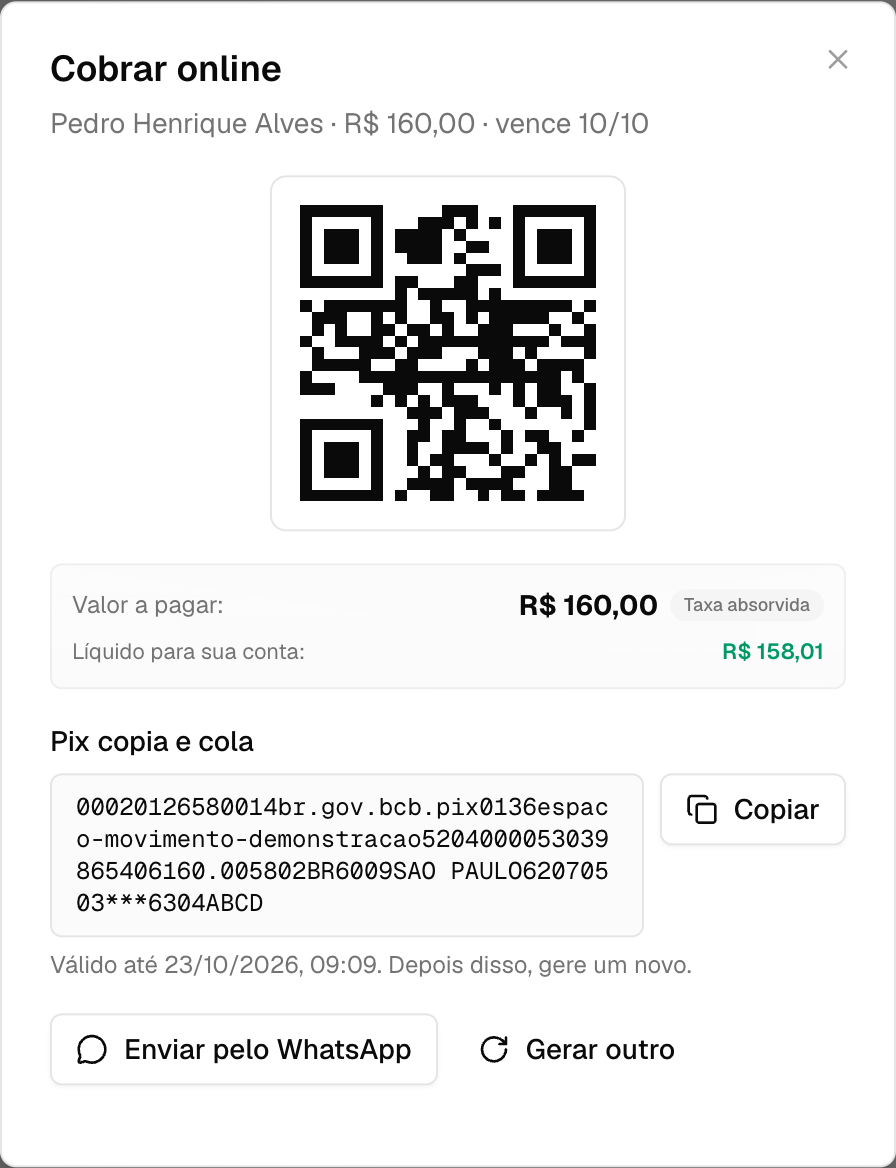
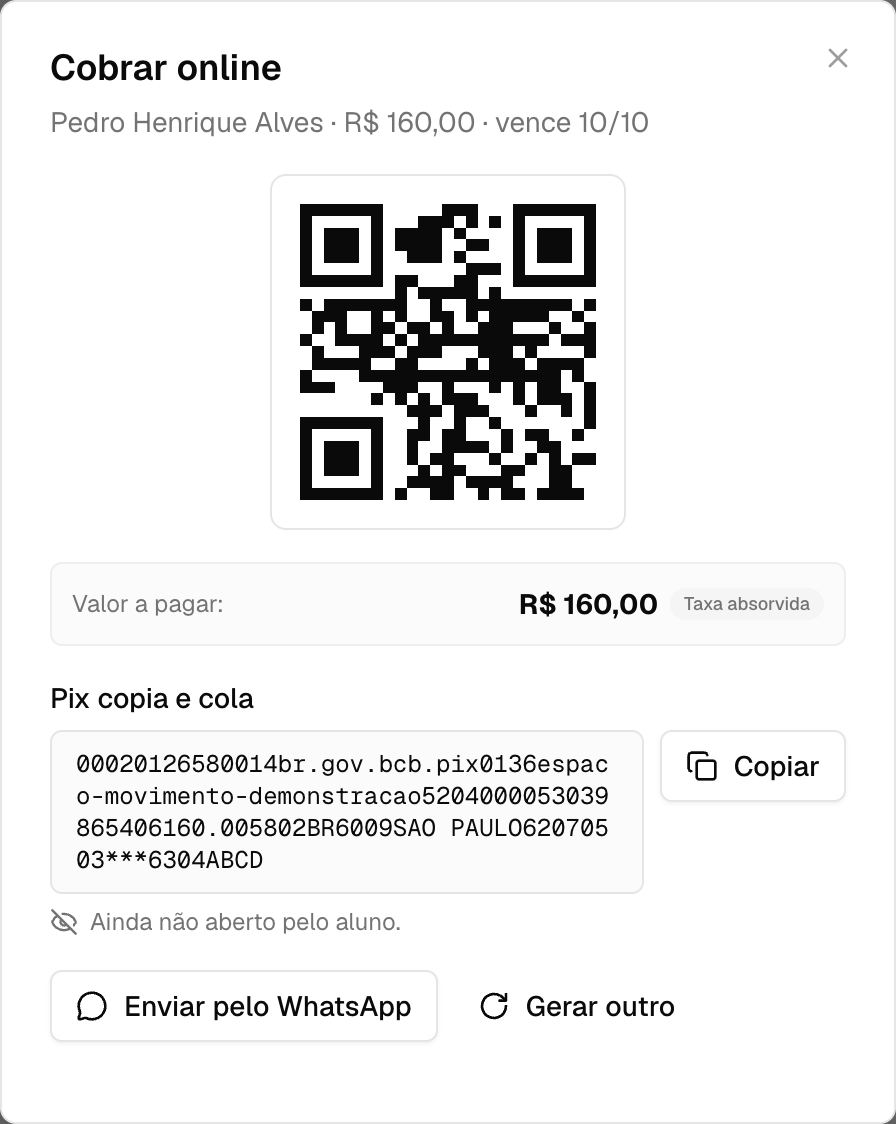
fix(landing): Pix picture without the stale validity and the net amount line (QA finding 20)

diff --git a/apps/web/scripts/landing-screenshots/capture.spec.ts b/apps/web/scripts/landing-screenshots/capture.spec.ts
@@ -397,6 +397,9 @@ test("telas da landing", async ({ page }) => {
       .getByText("Demonstração", { exact: true })
       .evaluate((el) => el.closest(".border-dashed")?.remove())
       .catch(() => undefined);
+    // A landing nao mostra taxa nem valor liquido, e a validade do print fica velha: saem do print (achado 20).
+    await p.getByText("Líquido para sua conta:").evaluate((el) => el.parentElement?.remove()).catch(() => undefined);
+    await p.getByText(/^Válido até/).evaluate((el) => el.remove()).catch(() => undefined);
     // Sem o "Fechar" do rodape: o print mostra so o Pix.
     await dialog.evaluate((el) => {
       for (const b of el.querySelectorAll("button")) {

diff --git a/docs/qa/2026-10-23-teste-geral.md b/docs/qa/2026-10-23-teste-geral.md
@@ -6,7 +6,7 @@ Plano: `docs/handoff/2026-10-23-plano-2fa-email-e-revisao-visual.md`, Parte B. N
 
 **76 achados no teste** (5 `alta`, 24 `média`, 47 `baixa`) e mais 5 achados durante as correções (77 a 81). Por área: Entrada e conta 11 · Painel e lembretes 2 · Cadastros 11 · Dia a dia 15 · Dinheiro 21 · Comunicação 3 · Administração 5 · Perfis 3 · Geral 5. Celular e tema escuro: nenhum achado próprio (os problemas de tela que aparecem lá já estão nas outras áreas).
 
-**Andamento das correções:** 32 de 81 resolvidos (#13, #56, #60, #66, #75, #76, #77, #78, #79, #80). As 5 altas do teste estão corrigidas. Detalhes na seção [Correções](#correções). Cada linha corrigida na tabela da área leva "(corrigido)" na gravidade.
+**Andamento das correções:** 33 de 81 resolvidos (#13, #56, #60, #66, #75, #76, #77, #78, #79, #80). As 5 altas do teste estão corrigidas. Detalhes na seção [Correções](#correções). Cada linha corrigida na tabela da área leva "(corrigido)" na gravidade.
 
 **As 5 mais importantes (todas `alta`):**
 
@@ -120,6 +120,7 @@ Feitas depois do teste, uma alta por vez. Cada uma foi conferida com typecheck, 
 | 8, 43 | 24/10 | A prévia dos modelos de mensagem usa um exemplo que serve a qualquer área ("mensalidade de novembro", antes "curso Confeitaria") e o aviso de mudança de horário mostra um horário de exemplo. O texto padrão dos avisos de horário e de feriado diz "Aviso de {empresa}" (sem o artigo "da"); vale para os espaços novos, os modelos já salvos ficam como estão. | `features/communication/__tests__/message-preview.test.ts` | — |
 | 16, 39 | 24/10 | Mantidos, sem mudança: a doc `frontend/07` diz que as Boas-vindas fecham só pelo X ou pelos botões (#16), e a doc `product/11` diz que na chamada concluída quem não foi marcado vira falta (#39). | — | — |
 | 15 | 24/10 | A tela do convite (e as de convite inválido, vencido e já aceito) usa a mesma moldura de /login e /reset-password, com a marca, frases curtas e maiúscula só no começo, "Nova senha*" com asterisco vermelho, botão de 36 px, sem o texto "Acesso seguro com autenticação criptografada". O e-mail deixou de ser em fonte de código. | `lib/__tests__/accept-invite-copy.test.ts` | — |
+| 20 | 24/10 | A figura do Pix na landing (pix-light e pix-dark) foi refeita sem a frase "Válido até ... gere um novo" (a data ficava velha) e sem a linha "Líquido para sua conta", que mostrava o valor depois da taxa. O roteiro de capturas (`scripts/landing-screenshots`) agora tira as duas linhas antes do print. | conferido a olho; é imagem (sem teste automático) | — |
 
 **Para o deploy:** em produção, `ASAAS_API_URL` precisa apontar para a API real antes do build, senão os botões de simular pagamento continuam ligados (doc `technical/14`).
 
@@ -142,8 +143,8 @@ Gravidade: `alta` (impede usar, dado ou valor errado, erro no console ou no serv
 | 16 | Painel | boas-vindas depois da configuração inicial | desktop 1280, claro | A janela "Bem-vindo ao GestaraHub" não fecha com Esc (só pelo X ou "Explorar por conta própria"). | Esc fecha, como nas outras janelas. | Concluir a configuração inicial de uma conta nova e apertar Esc. | baixa (mantido) |
 | 17 | Planos e Assinatura `/plans` | comparação dos planos | desktop 1280, claro | A tela promete recursos que o produto não tem: "App do Aluno e do Professor", "Portal do Aluno: pagamento em 1 clique e reservas", "Portal do Professor: avaliações e extrato", "Multiunidades ilimitadas", "BI de ocupação e inteligência analítica preditiva", "API para alto volume", "Página web dedicada", "Passe livre do aluno em todas as unidades". Mostra também preços do Profissional (R$ 79,90) e do Expansão (R$ 199,00), que a memória do projeto dá como ainda não definidos. | Só o que existe hoje (como a regra da landing) e preço só depois de decidido. | Conta nova, menu do usuário → "Planos & Assinatura". Captura `site-1280-plans.png`. | média |
 | 18 | Planos e checkout | taxa do Pix | desktop 1280, claro | Taxa do Pix diferente entre telas: em Planos, o Grátis tem "Cobrança Pix online (R$ 1,99 por Pix pago)"; em Recebimentos online, "Pix Dinâmico até R$ 1,99 + R$ 1,99 (tarifa do parceiro + taxa do GestaraHub)". | Um valor só, igual nas duas telas. | Comparar `/plans` com `/online-payments`. Capturas `site-1280-plans.png` e `tour-1280-online-payments.png`. | média |
-| 19 | Planos e checkout | texto | desktop 1280, claro | Jargão e inglês na tela: "Churn", "BI", "API", "gateway", "Link na Bio", "Fazer Upgrade", "O motor de crescimento"; títulos com maiúscula em cada palavra ("Finalizar Assinatura", "Dados de Faturamento", "Razão Social ou Nome do Titular"); frases longas de marketing. | Português direto, frases curtas, maiúscula só no começo. | `/plans` e `/plans/checkout`. Capturas `site-1280-plans.png` e `site-1280-checkout.png`. | baixa |
-| 20 | Landing `/` | "Veja o sistema por dentro" → Pagamento online | desktop 1280 e celular 375, claro | A ilustração do Pix diz "Válido até 23/10/2026, 09:09. Depois disso, gere um novo." às 19h do mesmo dia (a hora já passou) e mostra "Líquido para sua conta: R$ 158,01" num Pix de R$ 160,00, o que expõe a taxa (a doc 08 pede a seção sem valores de taxa). | Validade no futuro e sem valor líquido que revele a taxa. | Abrir `/` e rolar até "Receba pelo Pix sem conferir extrato". Capturas `landing-1280-02.png` e `landing-1280-03.png`. | baixa |
+| 19 | Planos e checkout | texto | desktop 1280, claro | Jargão e inglês na tela: "Churn", "BI", "API", "gateway", "Link na Bio", "Fazer Upgrade", "O motor de crescimento"; títulos com maiúscula em cada palavra ("Finalizar Assinatura", "Dados de Faturamento", "Razão Social ou Nome do Titular"); frases longas de marketing. | Português direto, frases curtas, maiúscula só no começo. | `/plans` e `/plans/checkout`. Capturas `site-1280-plans.png` e `site-1280-checkout.png`. | baixa (depende da decisão da tela de Planos) |
+| 20 | Landing `/` | "Veja o sistema por dentro" → Pagamento online | desktop 1280 e celular 375, claro | A ilustração do Pix diz "Válido até 23/10/2026, 09:09. Depois disso, gere um novo." às 19h do mesmo dia (a hora já passou) e mostra "Líquido para sua conta: R$ 158,01" num Pix de R$ 160,00, o que expõe a taxa (a doc 08 pede a seção sem valores de taxa). | Validade no futuro e sem valor líquido que revele a taxa. | Abrir `/` e rolar até "Receba pelo Pix sem conferir extrato". Capturas `landing-1280-02.png` e `landing-1280-03.png`. | baixa (corrigido) |
 
 ### Painel e lembretes
 

diff --git a/docs/handoff/2026-10-24-diario-noturno.md b/docs/handoff/2026-10-24-diario-noturno.md
@@ -30,3 +30,5 @@ Plano: `2026-10-24-execucao-noturna.md`. Branch: `execucao-noturna-2026-10-24` (
 | 4.2 #8 e #43 modelos de mensagem | feito | git log | typecheck, lint, Vitest 1030 | Modelos já salvos mantêm o texto antigo |
 | 4.2 #10, #12, #16, #39 e #26/#33 | decisão registrada / mantidos | git log | só docs | #10 e #12 em pendencias.md; #16 e #39 mantidos (docs 07 e 11) |
 | 4.2 #15 tela do convite | feito | git log | typecheck, lint, Vitest | Visual conferido na bateria final |
+| 4.2 #19 jargão em Planos/checkout | adiado (depende da decisão #17/#18) | git log | — | O conteúdo da tela de Planos muda com a decisão; revisar o texto junto |
+| 4.2 #20 figura do Pix na landing | feito | git log | capturas refeitas com SHOTS=pix | Sem CPF na imagem |
